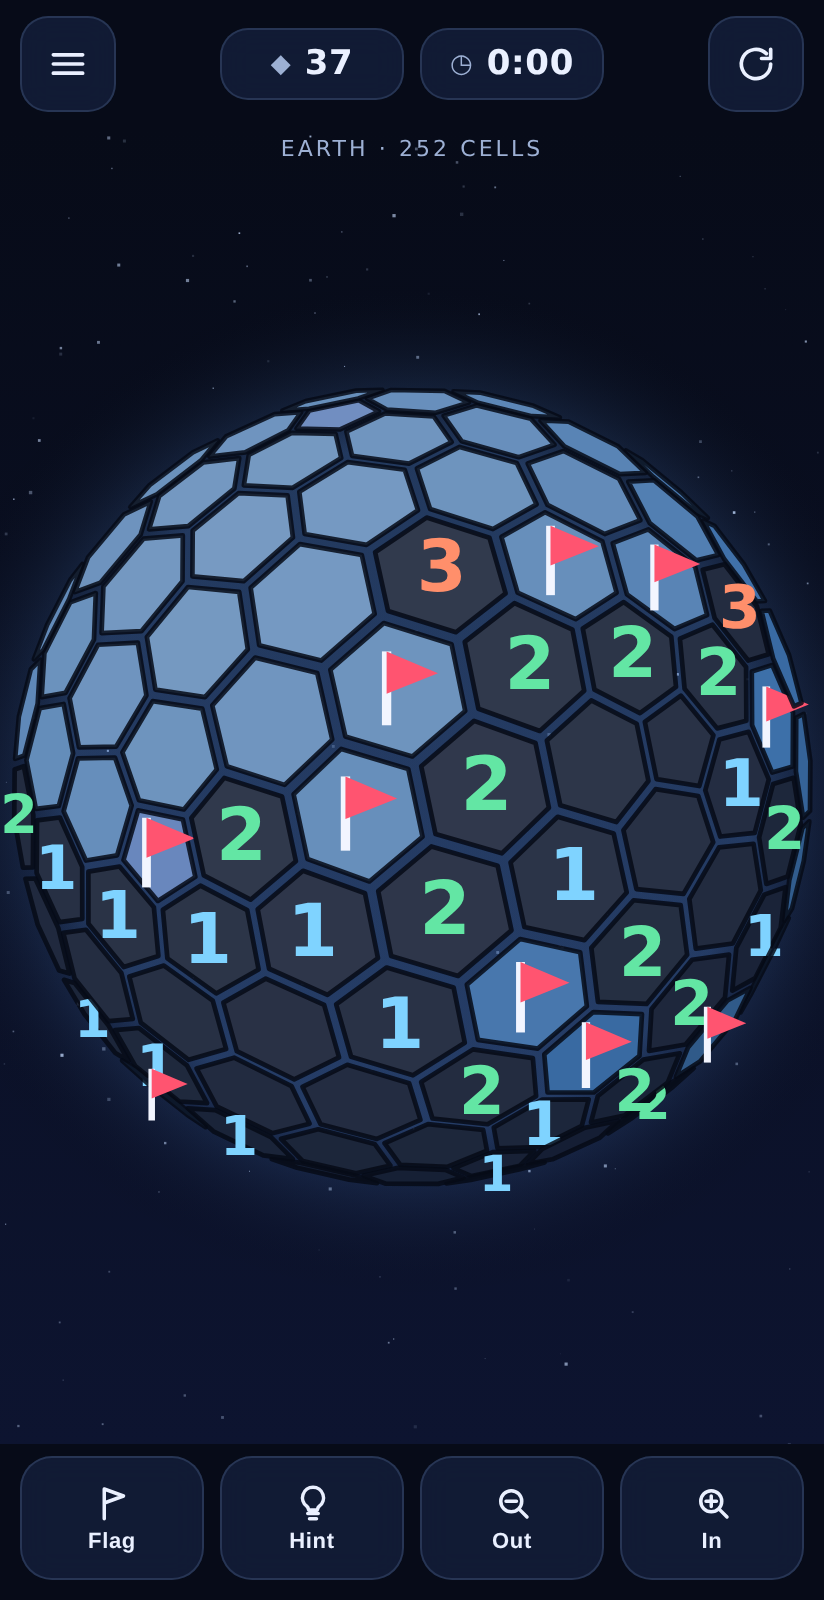
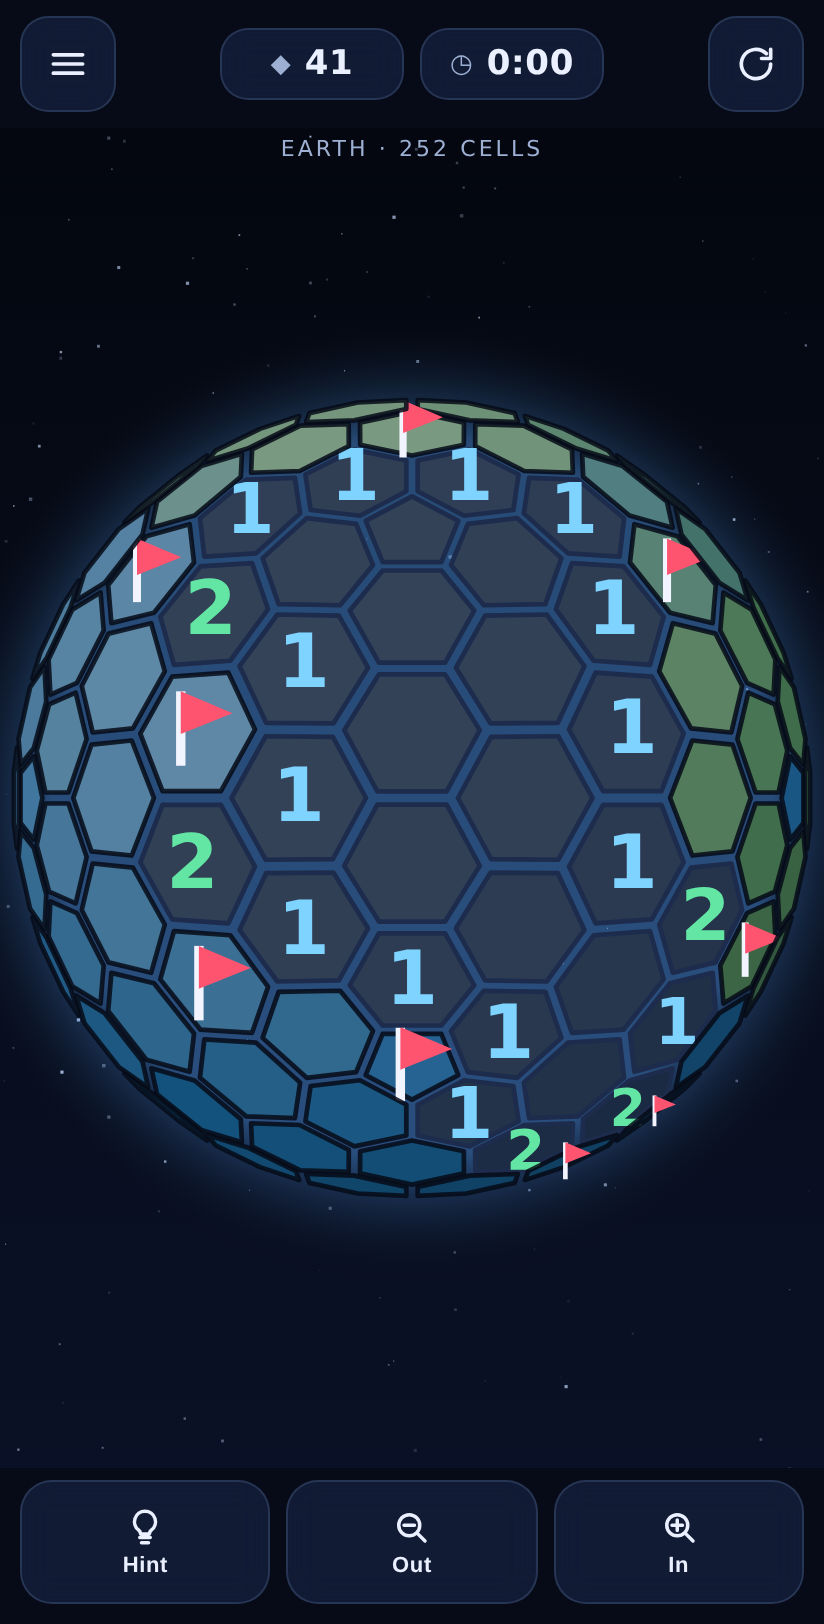
Bring the README back in line with the code
The screenshots were the oldest thing in it: the board shot predates both the
bodies work and the dock losing its Flag button, so it showed a flat blue Earth
with no continents and a control that no longer exists, and the menu shot
predates the difficulty ladder entirely. Both regenerated from the current build
at the same size.

Three claims had drifted. The first click's cascade cap is no longer a flat
fifth — it travels with the level, a quarter down to a tenth. The difficulty row
described three converted densities without mentioning that Insane is a fourth,
past both expert and the density at which a guess-free board can always be
built. And a custom board silently borrows the nearest preset's world, so
everything above 652 cells is the Sun; that is in the backlog, and now says so
here too rather than reading as five distinct worlds all the way up.

The rest follows this week's changes: press and hold flags, the ring that shows
the wait a lone tap still has to serve, Esc closes the menu, the palette rule
that a covered cell and a cleared one are only ever read against each other, and
what the suite now covers beyond topology and rules.

Claude-Session: https://claude.ai/code/session_013dXSDqqyZ3KPsdo6mGrz52

diff --git a/README.md b/README.md
@@ -21,8 +21,8 @@ completely offline.
 | **Five worlds, not five numbers** | Each board size is a place. Pebble is rough warm rock, Moon is grey maria, Earth has continents and a blue atmosphere, Neptune is banded, Sun is a granulated star with a corona. The surface is computed from each cell's own position, so it is the same world every time you play that size. |
 | **Casual mode** | One fatal tap can be stepped back, and the mine gets flagged for you. |
 | **Daily challenge** | The same board for everyone, derived from the date, pre-opened at the same cell. |
-| **Sizes from 92 to 4002 cells** | Five presets plus a custom board where you pick the cell count. Past about 1500 cells a board no longer fits legibly on one screen, so it becomes a game of zooming in and navigating around the sphere rather than reading the whole globe at once. |
-| **Size and difficulty are separate** | How big a board is and how hard it is are two choices, so a quick hard board is possible. Gentle, Normal, Hard and Insane each set the mine density *and* how much the first click may hand you, because a hard board that opens a quarter of itself is not hard. The densities are the classic beginner, intermediate and expert ratios converted for a sphere, where every cell has six neighbours instead of eight and the same density therefore leaves far more cells with nothing next to them. |
+| **Sizes from 92 to 4002 cells** | Five presets plus a custom board where you pick the cell count. Past about 1500 cells a board no longer fits legibly on one screen, so it becomes a game of zooming in and navigating around the sphere rather than reading the whole globe at once. A custom board borrows the world of the preset nearest its size, which means everything above 652 cells is currently the Sun — known, and written up in the backlog. |
+| **Size and difficulty are separate** | How big a board is and how hard it is are two choices, so a quick hard board is possible. Gentle, Normal, Hard and Insane each set the mine density *and* how much the first click may hand you — a quarter of the safe cells down to a tenth — because a hard board that opens a quarter of itself is not hard. The first three densities are the classic beginner, intermediate and expert ratios converted for a sphere, where every cell has six neighbours instead of eight and the same density therefore leaves far more cells with nothing next to them: 12.3/15.6/20.6% become 16/20/26%. Insane, at 32%, is past anything square minesweeper offers, and past the density at which a guess-free board can always be built — so it will sometimes hand you one that needs a guess, and say so. |
 | **Reads well for everyone** | Three themes including a high-contrast one with an Okabe–Ito number palette that stays distinguishable with any common colour blindness, plus adjustable number size. |
 | **Pentagons are marked** | The twelve five-neighbour cells are tinted, because a cell that touches five neighbours instead of six changes what its number means. |
 | **No ads, no tracking, no network** | Nothing is sent anywhere. Once loaded the game never talks to the network again. |
@@ -78,18 +78,24 @@ trusting the numbers in `app/build.gradle` to still be right.
 |---|---|
 | Spin the globe | Drag — it keeps coasting when you let go |
 | Open a cell | Double tap |
-| Flag a mine | Tap (or right-click on desktop) |
+| Flag a mine | Press and hold, or tap and let the ring close (right-click on desktop) |
 | Open around a number | Tap a number whose flags are all placed |
 | Zoom | Pinch, scroll, or the dock buttons |
 
-Only covered cells are ambiguous, so only they wait to see whether a tap is
-the first half of a double. A tap on a number opens around it straight away,
-and the open itself fires on the second tap rather than at the end of the
-window, so neither of the two frequent actions has any lag.
+Only covered cells are ambiguous, so only they wait to see whether a tap is the
+first half of a double. A tap on a number opens around it straight away, the
+open fires on the second tap rather than at the end of the window, and a press
+held past that window skips it entirely — a second tap would have had to land
+inside a window that went by while your finger was still down, so there is
+nothing left to disambiguate. That leaves one gesture that has to wait, a quick
+lone tap, and while it does the cell carries a ring that closes as the window
+does, because an unacknowledged wait is what reads as lag. The ring is
+deliberately not a faint flag: a flag drawn and then taken back would flash on
+every cell you open, cascades included.
 
 Keyboard: arrows spin, <kbd>+</kbd>/<kbd>-</kbd> zoom, <kbd>Space</kbd> opens the
 centre cell, <kbd>F</kbd> flags it, <kbd>C</kbd> opens around it, <kbd>H</kbd>
-hint, <kbd>N</kbd> new game.
+hint, <kbd>N</kbd> new game, <kbd>Esc</kbd> closes the menu.
 
 ## How it works
 
@@ -122,9 +128,10 @@ it always cascades; on 92 cells that cascade used to hand over two thirds of the
 board, and sometimes 96% of it, before you had read a single number. Moving
 mines closer to the opening does not help, because the generator then rejects
 those boards as unsolvable and draws another that cascades anyway: the guarantee
-itself is what demands a generous opening. Capping the cascade at a fifth of the
-safe cells and drawing again costs about a millisecond, because it only binds on
-the small boards, which are the cheap ones to generate.
+itself is what demands a generous opening. Capping the cascade — a quarter of the
+safe cells on Gentle, down to a tenth on Insane — and drawing again costs about
+a millisecond, because it only binds on the small boards, which are the cheap
+ones to generate.
 
 **The renderer** (`js/renderer.js`) is a small 3D engine on a plain 2D canvas:
 quaternion orientation, a perspective camera, back-face culling (the sphere is
@@ -145,6 +152,16 @@ The high-contrast theme drops the body outright, because its palette exists to
 stay readable with any common colour blindness and a planet painted over it would
 undo that.
 
+The one rule that constrains all of it is that a covered cell and a cleared one
+are read *against each other*, so no palette can be judged on its own. Two
+bodies had drifted until one end of their surface range landed on the tone of an
+opened cell, and on those boards a cleared area could only be found by hunting
+for numbers. The fill is therefore computed by one function the tests can call
+without a canvas, and the suite sweeps every body against every theme across the
+whole surface range. Cleared cells also carry their own rim colour rather than
+the near-black grid the covered ones use, so the boundary you actually scan for
+survives even where two fills come out close.
+
 ## Tests
 
 ```sh
@@ -157,12 +174,19 @@ arithmetic, the guarantee that generated boards really are guess-free, and the
 game rules — cascades, flags, chording, wins, rewind, seeded boards, and the
 promise that a hint never points at a mine it called safe.
 
-It also covers delivery, against a fake Cache Storage and a fake network: that a
-pushed fix reaches a browser which already has the game, that offline play
-survives a failed refresh, and that an interrupted refresh can never leave half
-of one version beside half of another. The fake network models a browser's
-per-host connection limit, because without that it cheerfully passes a worker
-that deadlocks on a real one.
+It also covers the things that are only visible when you play: that every body
+stays distinguishable from a cleared cell in every theme, that a tap on a
+covered cell never flags one you meant to open and a held press never waits,
+and that the reveal animation cannot run outside its own bounds — the cascade
+stamps cells with times in the *future*, and unclamped easing once painted a
+cell at 65x, mirrored through its own centre.
+
+And delivery, against a fake Cache Storage and a fake network: that a pushed fix
+reaches a browser which already has the game, that offline play survives a failed
+refresh, and that an interrupted refresh can never leave half of one version
+beside half of another. The fake network models a browser's per-host connection
+limit, because without that it cheerfully passes a worker that deadlocks on a
+real one.
 
 ## Layout
 
